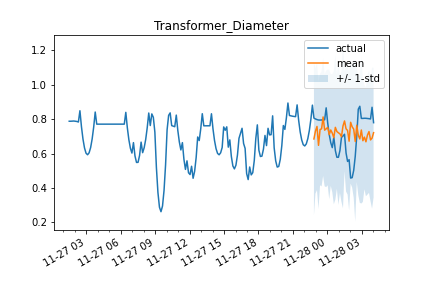
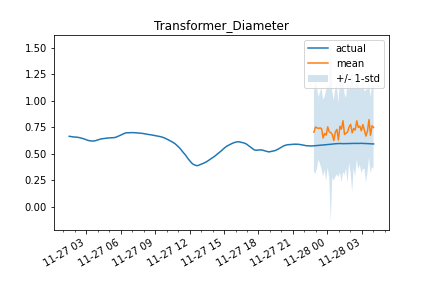
Clean wrong data of diameter

diff --git a/TFG_Old/Codigo_TFG.py b/TFG_Old/Codigo_TFG.py
@@ -23,13 +23,10 @@ import time
 # %% Carga del dataset
 
 df = pd.read_csv(
-    'C:/Users/anton/OneDrive/Escritorio/TFG_Antonio_Luis/TFG antiguos/medidas_oct_2020.csv', sep=";")
+    'C:/Users/anton/OneDrive/Escritorio/TFG_TST/TFG_Old/medidas_oct_2020.csv', sep=";")
 
 # %% Preprocesamiento
 
-# Selección de variables relevantes
-data = df[['datetime', 'luminosidad', 'temperatura',
-           'humedad_rel', 'temp_suelo', 'electrocond', 'var_diam']]
 
 date_var = df[['date']]
 
@@ -104,7 +101,7 @@ X_test, y_test = train_test_split(test_data, n_steps_in, n_steps_out)
 # date_test = date_test[train_size+n_steps_in+n_steps_out-2:]
 # date_test = date_var[train_size+n_steps_in+n_steps_out-2:]
 
-
+data1 = y_train
 # %% Definición de la arquitectura del modelo
 model = Sequential()
 model.add(LSTM(16, activation='tanh', input_shape=(n_steps_in, 5)))
@@ -259,3 +256,30 @@ plt.legend()
 
 val = history.history['val_loss']
 train = history.history['loss']
+
+# %%
+figure, axes = plt.subplots()
+axes.set_title("y_train")
+axes.plot(y_train, color="blue")
+
+# %%
+figure, ax = plt.subplots(figsize=(12, 6))  # Ancho de 12 pulgadas y alto de 6 pulgadas
+ax.set_title("data[['var_diam_sua_py']]")
+plt.setp(ax.get_xticklabels(), rotation=30, horizontalalignment='right')
+ax.plot(data[['var_diam_sua_py']], color="blue")
+
+# %%
+figure, ax = plt.subplots(figsize=(12, 6))  # Ancho de 12 pulgadas y alto de 6 pulgadas
+ax.set_title("y_train")
+plt.setp(ax.get_xticklabels(), rotation=30, horizontalalignment='right')
+ax.plot(y_train, color="blue")
+
+# %%
+figure, ax = plt.subplots(figsize=(12, 6))  # Ancho de 12 pulgadas y alto de 6 pulgadas
+vector_original = df['var_diam']  # Corregido: quita los corchetes adicionales
+vector_filtrado = [elemento for elemento in vector_original if elemento >= 100]
+plt.ylim(129, 132)
+# Corregido: utiliza comillas simples para el nombre de la columna
+ax.set_title("df['var_diam']")
+plt.setp(ax.get_xticklabels(), rotation=30, horizontalalignment='right')
+ax.plot(vector_filtrado, color="blue")

diff --git a/TFG_Code/Create_2023_dataset/Creating_my_dataset_2023.py b/TFG_Code/Create_2023_dataset/Creating_my_dataset_2023.py
@@ -6,6 +6,7 @@ from scipy.signal import savgol_filter
 from datasets import Dataset
 from sklearn.preprocessing import MinMaxScaler
 import matplotlib.pyplot as plt
+import numpy as np
 
 # prediction lenth
 prediction_length = 500
@@ -24,8 +25,20 @@ df = pd.read_csv(file_path, sep=";")
 data = df[['luminosidad', 'temperatura',
            'humedad_rel', 'temp_suelo', 'electrocond', 'var_diam']]
 
+
+def reemplazar_valores_incorrectos(serie):
+    for i in range(1, len(serie) - 1):
+        if serie[i] < 100:
+            serie[i] = serie[i - 1]
+    return serie
+
+
+# Aplicar la función a la columna 'var_diam'
+data['var_diam'] = reemplazar_valores_incorrectos(data['var_diam'])
+
+# %%
 # Preprocesados de los datos
-datos = df[['var_diam']]
+datos = data[['var_diam']]
 ventana = 100  # Tamaño de la ventana de la media móvil
 # Eliminamos la pendiente de nuestros datos
 datos_sin = datos['var_diam']-datos['var_diam'].rolling(window=ventana).mean()
@@ -111,3 +124,14 @@ ejex = list(range(len(test_dataset[var]["target"])))
 
 axes.plot(ejex[:prediction_length], train_dataset[var]
           ["target"][:prediction_length:], color="blue")
+
+
+# %%
+
+figure, ax = plt.subplots(figsize=(12, 6))  # Ancho de 12 pulgadas y alto de 6 pulgadas
+vector = data1[['var_diam']]  # Corregido: quita los corchetes adicionales
+plt.ylim(129, 132)
+# Corregido: utiliza comillas simples para el nombre de la columna
+ax.set_title("df['var_diam']")
+plt.setp(ax.get_xticklabels(), rotation=30, horizontalalignment='right')
+ax.plot(vector, color="blue")

diff --git a/TFG_Code/src/T1_Load_Dataset.py b/TFG_Code/src/T1_Load_Dataset.py
@@ -74,10 +74,23 @@ def load_my_own_dataset(prediction_length):
     data = df[['datetime', 'luminosidad', 'temperatura',
                'humedad_rel', 'temp_suelo', 'electrocond', 'var_diam']]
 
+    # Selección de variables relevantes
+    data = df[['luminosidad', 'temperatura',
+               'humedad_rel', 'temp_suelo', 'electrocond', 'var_diam']]
+
+    def reemplazar_valores_incorrectos(serie):
+        for i in range(1, len(serie) - 1):
+            if serie[i] < 100:
+                serie[i] = serie[i - 1]
+        return serie
+
+    # Aplicar la función a la columna 'var_diam'
+    data['var_diam'] = reemplazar_valores_incorrectos(data['var_diam'])
+
     date_var = df[['date']]
 
     # Preprocesados de los datos
-    datos = df[['var_diam']]
+    datos = data[['var_diam']]
     ventana = 100  # Tamaño de la ventana de la media móvil
     # Eliminamos la pendiente de nuestros datos
     datos_sin = datos['var_diam']-datos['var_diam'].rolling(window=ventana).mean()

diff --git a/TFG_Code/src/main.py b/TFG_Code/src/main.py
@@ -10,10 +10,10 @@ from T5_Evaluate_Model import forecasting, see_metrics, plot
 # %% DEFINE VARIABLES
 
 # Choose between "Transformer", "Informer", "Autoformer"
-model_variant = "Transformer"
+model_variant = "Informer"
 
 freq = "8min"
-prediction_length = 40
+prediction_length = 200
 num_of_epochs = 1
 # %% LOAD, SPLIT AND PREPROCESS DATASET
 
